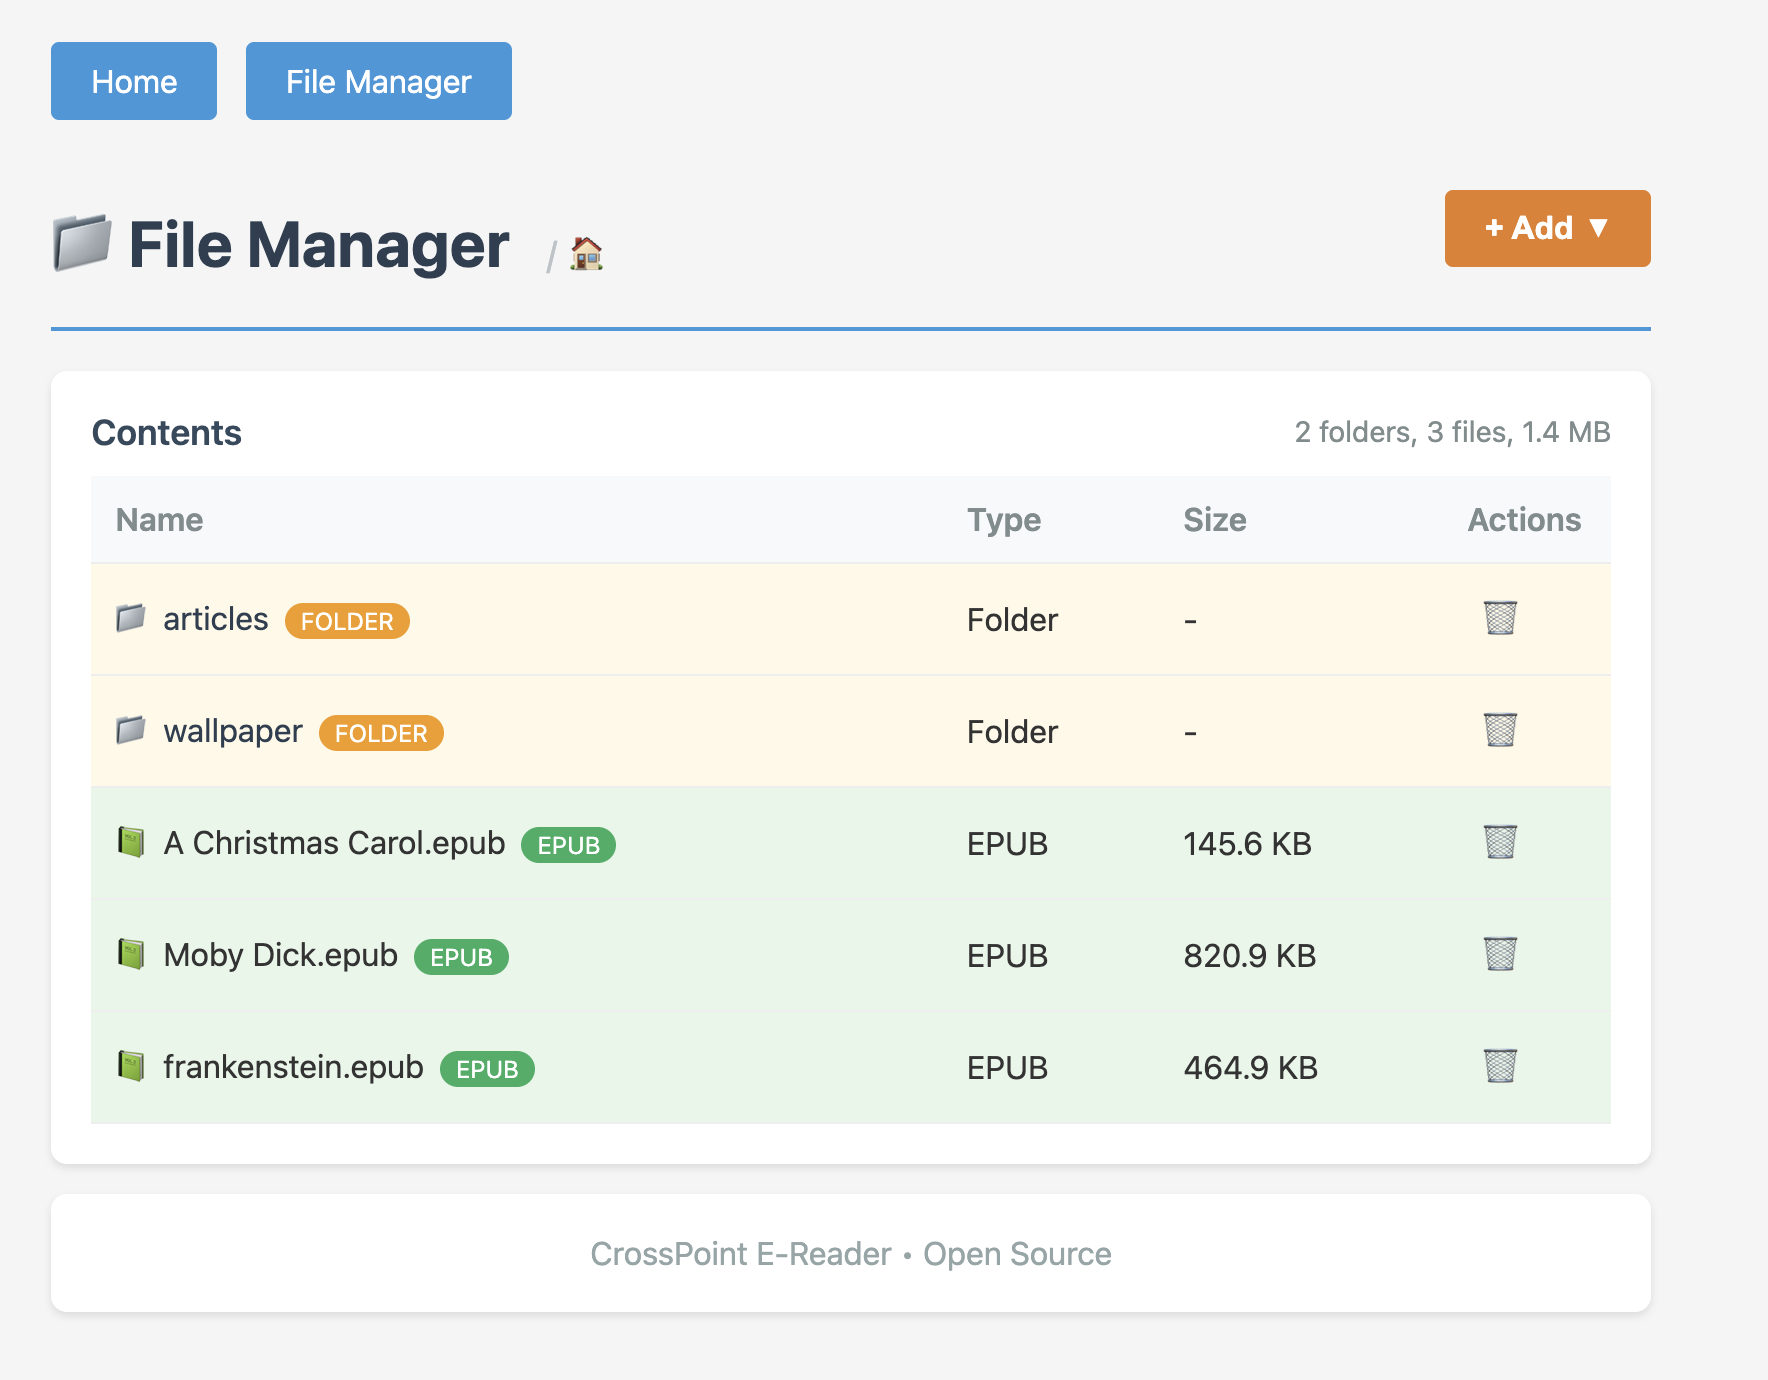
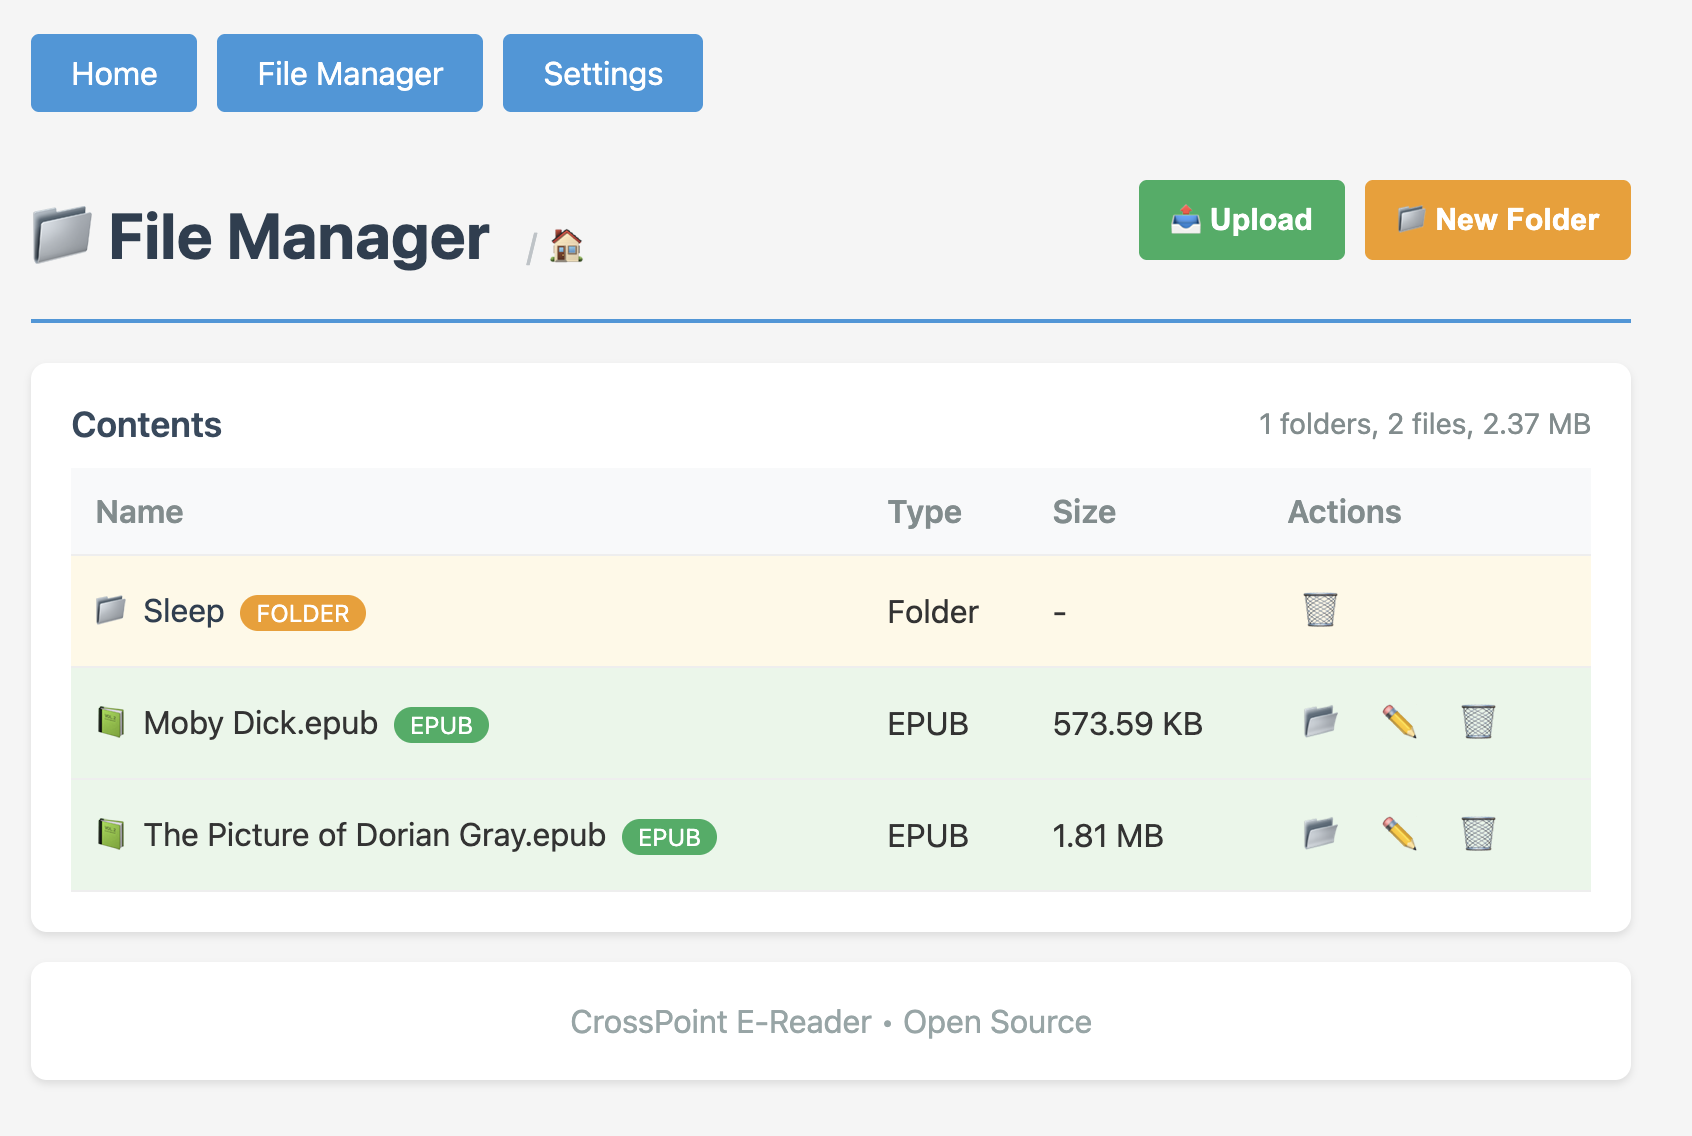
docs: Updating webserver.md documentation to align with 1.0.0 features (#906)
## Summary

* **What is the goal of this PR?** (e.g., Implements the new feature for
file uploading.)

Updating webserver.md documentation to align with 1.0.0 features

* **What changes are included?**

Added documentation for the following new features (including replacing
screenshots)

- file renaming
- file moving
- support for uploading any file type
- batch uploads

## Additional Context

* Add any other information that might be helpful for the reviewer
(e.g., performance implications, potential risks,
  specific areas to focus on).

Nothing comes to mind

---

### AI Usage

While CrossPoint doesn't have restrictions on AI tools in contributing,
please be transparent about their usage as it
helps set the right context for reviewers.

Did you use AI tools to help write this code? _**NO**_

diff --git a/docs/webserver.md b/docs/webserver.md
@@ -1,14 +1,14 @@
 # Web Server Guide
 
-This guide explains how to connect your CrossPoint Reader to WiFi and use the built-in web server to upload EPUB files from your computer or phone.
+This guide explains how to connect your CrossPoint Reader to WiFi and use the built-in web server to upload files from your computer or phone.
 
 ## Overview
 
 CrossPoint Reader includes a built-in web server that allows you to:
 
-- Upload EPUB files wirelessly from any device on the same WiFi network
+- Upload files wirelessly from any device on the same WiFi network
 - Browse and manage files on your device's SD card
-- Create folders to organize your ebooks
+- Create folders to organize your library
 - Delete files and folders
 
 ## Prerequisites
@@ -129,34 +129,31 @@ Click **File Manager** to access file management features.
 #### Browsing Files
 
 - The file manager displays all files and folders on your SD card
-- **Folders** are highlighted in yellow with a 📁 icon
-- **EPUB files** are highlighted in green with a 📗 icon
+- **Folders** are highlighted in yellow and indicated with a 📁 icon
+- **EPUB Files** are highlighted in green and indicated with a 📗 icon
+- **All Other Files** are not highlighted and indicated with a 📄 icon
 - Click on a folder name to navigate into it
 - Use the breadcrumb navigation at the top to go back to parent folders
 
 <img src="./images/wifi/webserver_files.png" width="600">
 
-#### Uploading EPUB Files
+#### Uploading Files
 
-1. Click the **+ Add** button in the top-right corner
-2. Select **Upload eBook** from the dropdown menu
-3. Click **Choose File** and select an `.epub` file from your device
-4. Click **Upload**
-5. A progress bar will show the upload status
-6. The page will automatically refresh when the upload is complete
-
-**Note:** Only `.epub` files are accepted. Other file types will be rejected.
+1. Click the **📤 Upload** button in the top-right corner
+2. Click **Choose File** and select a file from your device
+3. Click **Upload**
+4. A progress bar will show the upload status
+5. The page will automatically refresh when the upload is complete
 
 <img src="./images/wifi/webserver_upload.png" width="600">
 
 #### Creating Folders
 
-1. Click the **+ Add** button in the top-right corner
-2. Select **New Folder** from the dropdown menu
-3. Enter a folder name (must not contain characters \" * : < > ? / \\ | and must not be . or ..)
-4. Click **Create Folder**
+1. Click the **📁 New Folder** button in the top-right corner
+2. Enter a folder name (must not contain characters \" * : < > ? / \\ | and must not be . or ..)
+3. Click **Create Folder**
 
-This is useful for organizing your ebooks by genre, author, or series.
+This is useful for organizing your library by genre, author, series or file type.
 
 #### Deleting Files and Folders
 
@@ -168,11 +165,25 @@ This is useful for organizing your ebooks by genre, author, or series.
 
 **Note:** Folders must be empty before they can be deleted.
 
+#### Moving Files
+
+1. Click the **📂** (folder) icon next to any file
+2. Enter a folder name or select one from the dropdown
+3. Click **Move** to relocate the file
+
+**Note:** Typing in a nonexistent folder name will result in the following error: "Failed to move: Destination not found"
+
+#### Renaming Files
+
+1. Click the **✏️** (pencil) icon next to any file
+2. Enter a file name (must not contain characters \" * : < > ? / \\ | and must not be . or ..)
+3. Click **Rename** to permanently rename the file
+
 ---
 
 ## Command Line File Management
 
-For power users, you can manage files directly from your terminal using `curl` while the device is in File Upload mode a detailed documentation can be found [here](./webserver-endpoints.md). 
+For power users, you can manage files directly from your terminal using `curl` while the device is in File Upload mode. Detailed documentation can be found [here](./webserver-endpoints.md). 
 
 ## Security Notes
 
@@ -189,7 +200,6 @@ For power users, you can manage files directly from your terminal using `curl` w
 - **Supported WiFi:** 2.4GHz networks (802.11 b/g/n)
 - **Web Server Port:** 80 (HTTP)
 - **Maximum Upload Size:** Limited by available SD card space
-- **Supported File Format:** `.epub` only
 - **Browser Compatibility:** All modern browsers (Chrome, Firefox, Safari, Edge)
 
 ---
@@ -198,7 +208,7 @@ For power users, you can manage files directly from your terminal using `curl` w
 
 1. **Organize with folders** - Create folders before uploading to keep your library organized
 2. **Check signal strength** - Stronger signals (`|||` or `||||`) provide faster, more reliable uploads
-3. **Upload multiple files** - You can upload files one at a time; the page refreshes after each upload
+3. **Upload multiple files** - You can select and upload multiple files at once; the manager will queue them and refresh when the batch is finished
 4. **Use descriptive names** - Name your folders clearly (e.g., "SciFi", "Mystery", "Non-Fiction")
 5. **Keep credentials saved** - Save your WiFi password for quick reconnection in the future
 6. **Exit when done** - Press **Back** to exit the WiFi screen and save battery